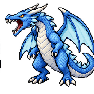
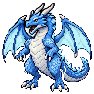
Match dragon attack start to original pose and preserve body

diff --git a/design/enemies/dragon_frost/attack/PROMPT.md b/design/enemies/dragon_frost/attack/PROMPT.md
@@ -1,1 +1,1 @@
-Built-in image_gen edit. Reference: ../move/dragon_frost_1.png. Four-frame open-mouth loop. NO FIRE or particles. Original long narrow snout and swept-back horns preserved. Face in LEFT SIDE PROFILE, neck reaching left, not toward camera, jaws open, ivory teeth visible. Frame1 medium gape, frame2 wider, frame3 maximum, frame4 return. Preserve blue pixel-art dragon, feet anchored, transparent background. Export: 94x94 PNG; 0.14s per frame.
+Built-in image_gen edit. Reference: ../move/dragon_frost_1.png. Four-frame open-mouth loop. NO FIRE or particles. Frame1 exact original file. Frames2-4 original body pixels retained, only head/neck area edited. Closed to partial open to full open to partial close, left facing original narrow face., jaws open, ivory teeth visible. Frame1 medium gape, frame2 wider, frame3 maximum, frame4 return. Preserve blue pixel-art dragon, feet anchored, transparent background. Export: 94x94 PNG; 0.14s per frame.
